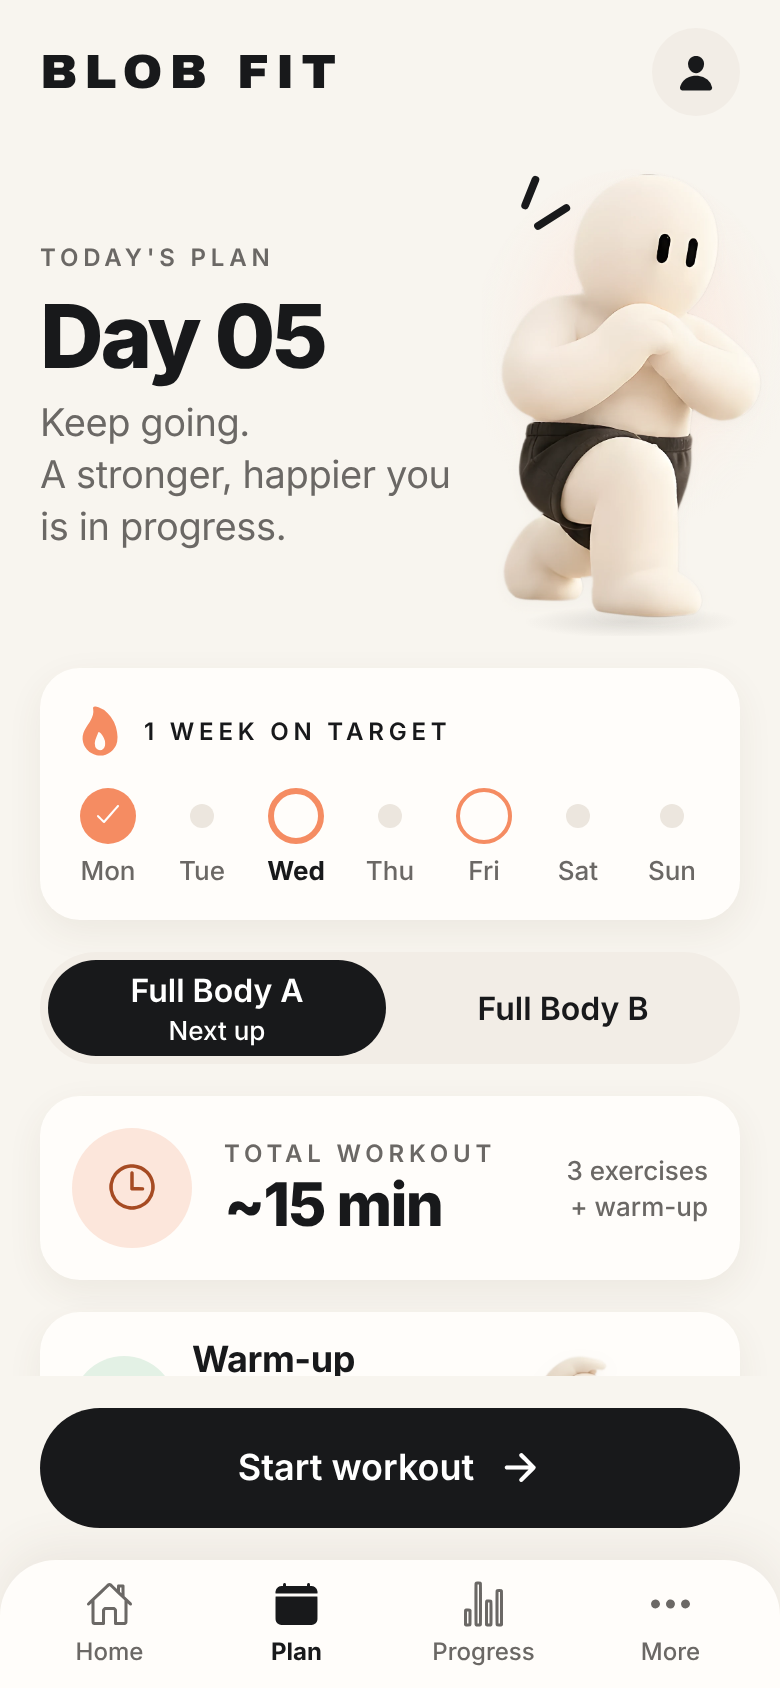
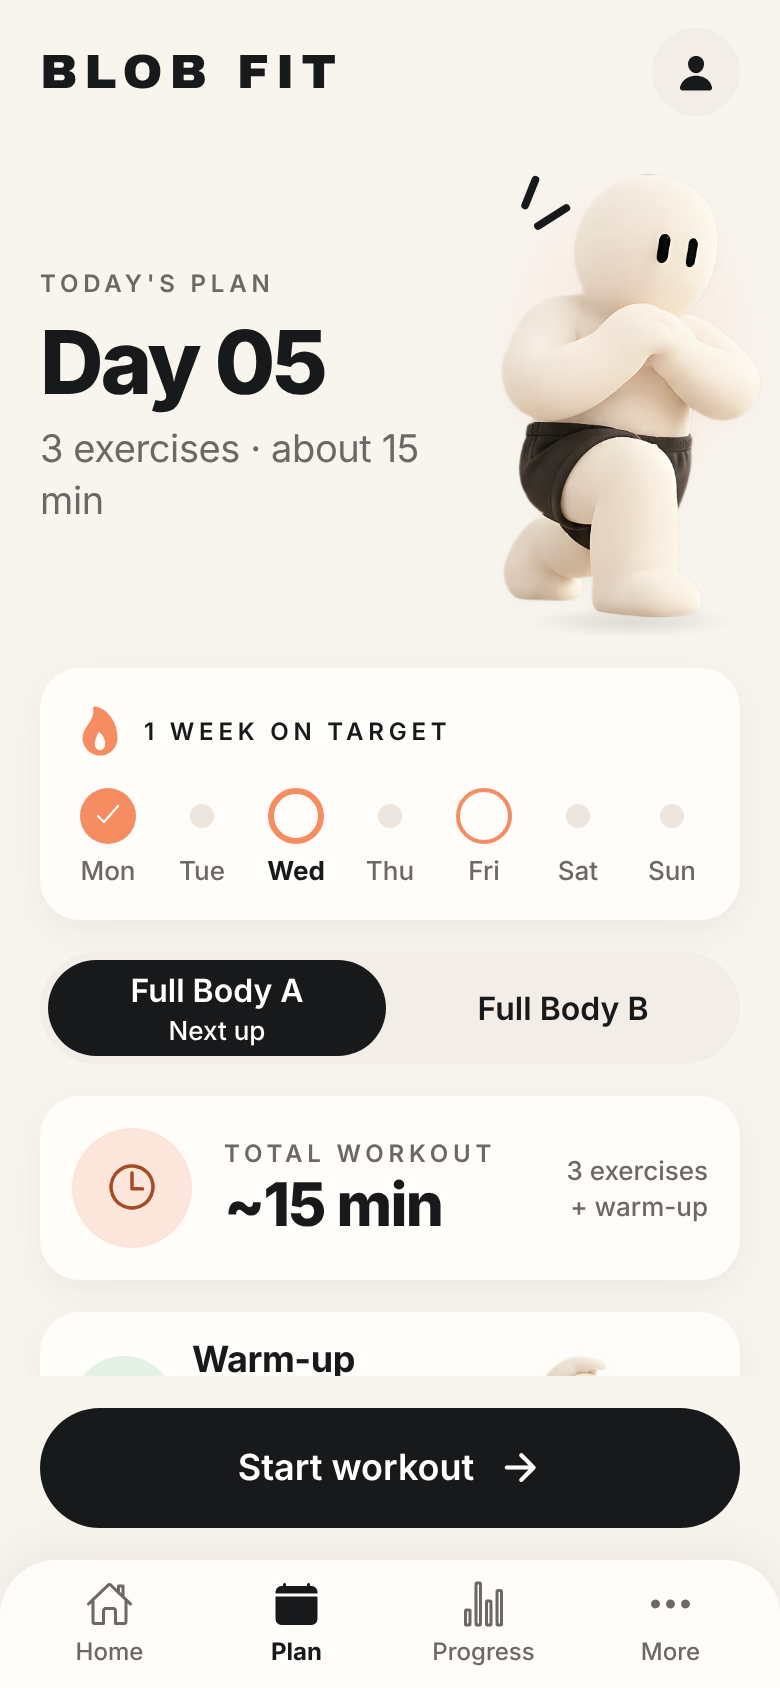
docs: training round, refreshed screenshots
Maps the features established training apps share to what BLOB FIT now
does, lists what was removed as filler and what is not added yet.

Claude-Session: https://claude.ai/code/session_01GxvcnDqjGiTzFAnzHf84DC

Changed region(s): [[0.0308, 0.1232, 0.5846, 0.3389]]

diff --git a/docs/MVP_RELEASE_NOTES.md b/docs/MVP_RELEASE_NOTES.md
@@ -1,6 +1,6 @@
 # BLOB FIT — MVP implementation report
 
-**Branch:** `claude/zealous-cannon-9cvkob` · **Date:** 2026-10-17 · **Status:** feature-complete MVP preview. This is not an app-store release.
+**Branch:** `claude/zealous-cannon-9cvkob` · **Date:** 2026-10-18 · **Status:** feature-complete MVP preview. This is not an app-store release.
 
 **Web preview:** https://onderhalis.github.io/blobfit/ (the exported web build; not the native app). See [Web preview](#web-preview) and, for iPhone, [`NATIVE_TESTING.md`](NATIVE_TESTING.md).
 
@@ -26,21 +26,21 @@ Stack: Expo SDK 58, React Native 0.88, React 19.3, TypeScript 6 (strict), Expo R
 | Area | Behaviour |
 |---|---|
 | **Onboarding** | Four steps: goal, experience, training days (2–4, with a warning for three days in a row), equipment, plus a required general-fitness disclaimer. The answers persist across relaunch and can be edited later in *More → Your plan settings*. |
-| **Home** | Greeting and a hero whose copy follows today's real state: first session, session N ready, rest day, done today, or resume. Also shows the week's journey card (sessions done vs planned), quick links and a focus card. |
+| **Home** | Today's date and plain status from real state ("Full Body B today", "Rest day", "Done for today", "… in progress") with one action. Below: this week (done vs planned, streak), today's or the next workout with each exercise's target and what changed since last time, and the last workout. |
 | **Plan** | Beginner full-body A/B rotation. A is squat, incline push-up and a pull; B is hip hinge, a pull and plank. Sets depend on experience. The pull adapts to equipment: dumbbell row, then band row, then prone Y raise. The screen also has week dots (done / planned / missed / rest / extra), a ~duration estimate, an expandable warm-up and A/B preview. Rest days are real days off, and you can still start a workout if you want. |
 | **Exercise detail** | Muscles (text chips, no anatomy overlay), starting position, numbered steps, rep phases, form cues, common mistakes, and linked easier/harder variations. Every exercise shows a **Content review pending** badge. |
 | **Library** | 12 movements grouped by pattern. Exercises needing equipment you didn't select are flagged. |
-| **Workout logging** | Per-set reps or seconds and load (kg/lb), done ticks, add/remove sets, skip, swap to a same-pattern exercise your equipment allows, a persistent timer with pause/resume, a 60 s rest countdown and a warm-up checklist. Discarding asks for confirmation. Only ticked sets are saved. |
-| **Session summary** | Duration, sets, reps, hold time, volume, and new personal bests compared only with your own earlier sessions. Delete also asks for confirmation. |
-| **Progress** | All numbers come from logs (per-side exercises count both sides): this week's ring, weeks-on-target streak, total workouts (and last 30 days), consistency (completed ÷ scheduled days so far), total reps/volume, first-vs-latest best set (like-for-like only: loaded vs loaded, bodyweight vs bodyweight), weekly bar history, personal bests and recent sessions. Brand-new users see an empty state. |
-| **More** | Plan settings, library, safety & about, kg/lb, and erase all data (with confirmation). |
+| **Workout logging** | Per-set reps or seconds and load (kg/lb), done ticks, add/remove sets, skip, swap to a same-pattern exercise your equipment allows, a persistent timer with pause/resume, a 60 s rest countdown and a warm-up checklist. Each exercise shows what you did last time and why today's target is what it is; after its last set it asks how it felt (easy / just right / hard). Discarding asks for confirmation. Only ticked sets are saved. |
+| **Session summary** | Duration, sets, reps, hold time, volume, new personal bests compared only with your own earlier sessions, how each exercise felt, and the next target for each. Delete also asks for confirmation. |
+| **Progress** | All numbers come from logs (per-side exercises count both sides): workouts and minutes since the first one, this week's ring, weeks-on-target streak, sets, consistency (completed ÷ scheduled days so far), total reps/volume, first-vs-latest best set (like-for-like only), a six-week training calendar, personal bests and recent sessions. A brand-new user sees no zero tiles, only this week's target and their first workout. |
+| **More** | Plan settings, library, safety & about, kg/lb, training-day reminder (iOS/Android only, off by default), and erase all data (with confirmation). |
 | **Robustness** | Loading state. Saved data is validated down to every set: unreadable or incomplete data shows a recovery screen and is never silently wiped. A failed write to device storage shows a *Not saved* banner with retry. Schedule edits apply from the day they are made, so past weeks keep their original targets. Safe areas respected. 44 pt minimum touch targets. Screen-reader roles, labels, values and states on all controls (cross-platform `aria-*` props, so checked/selected/disabled states also reach the web). Every progress ring and bar also has a text value. There are no animations, so reduced-motion settings are honoured by default. |
 
 ## Quality gates (`docs/QUALITY_GATES.md`)
 
 | # | Gate | Result | Evidence |
 |---|---|---|---|
-| 1 | install / typecheck / test / lint | ✅ | `npm run check`: tsc clean, eslint 0 problems, **99 unit tests** pass (also run under `TZ=America/New_York` and `TZ=Asia/Tokyo`). |
+| 1 | install / typecheck / test / lint | ✅ | `npm run check`: tsc clean, eslint 0 problems, **117 unit tests** pass (also run under `TZ=America/New_York` and `TZ=Asia/Tokyo`). |
 | 2 | App starts, five screens navigable | ✅ web · ⚠ native | Web: exported build driven end to end by `e2e/smoke.mjs`. Native: `expo export --platform ios --platform android` bundles successfully. No simulator or device was available, so native runtime is **unverified**. |
 | 3 | Onboarding persists across relaunch, editable | ✅ | e2e reloads after onboarding and after logging; the preferences screen saves edits. |
 | 4 | Safe rest days, no fake metrics | ✅ | Schedules are limited to 2–4 days and every default has rest days between sessions (unit tested). The concept numbers are not used anywhere. |
@@ -116,12 +116,36 @@ Still open:
 - Step-by-step pose images and exercise-specific art: requested in issue #1 (CC-007, CC-009).
 - TestFlight / EAS: needs the founder's Apple Developer and Expo accounts.
 
+## Training round: what successful fitness apps do
+
+Founder feedback (2026-10-18): parts of the app read as generic AI output. This round removes that and adds the features that the best-known training apps share, inside BLOB FIT's own design. Every number shown comes from the user's own logs.
+
+**Removed:** slogans and affirmation copy, Home quick-link tiles that repeated the tab bar, the generic "Today's focus" tip, zero-value tiles for new users, the slogan footer on Progress, and repeated text (two "no workouts" messages; a workouts tile that repeated the headline).
+
+| Pattern in established apps | In BLOB FIT now |
+|---|---|
+| Previous performance inline while logging (Strong, Hevy) | "Last time (Oct 9): 12, 12 reps · 8 kg" under every exercise, plus a per-exercise history on the exercise screen. |
+| Automatic progressive overload (Fitbod, Jefit, Progress) | Double progression from your own last session (`src/domain/progression.ts`). Reps: +1 per session (+2 if it felt easy). Bodyweight goes up to target +4, then suggests the harder variation if your equipment allows. Loaded: up to target +2 reps, then +2 kg (5 lb). Holds: +5 s (+10 s if it felt easy). Missed reps or "hard" repeat the target. Never below the plan. Each change states its reason. |
+| Effort rating (RPE in Strong/Hevy, "how did it feel" in Fitbod) | Easy / just right / hard after each exercise; it feeds the next target. |
+| Next-time targets | Session summary lists the next target per exercise; Plan and Home show the progressed prescription. |
+| Consistency calendar (Apple Fitness, Hevy) | Six-week training calendar on Progress (trained, extra, planned, missed, rest). It replaces the weekly bar chart. |
+| Workout reminders | Opt-in, one local notification per training day at a chosen hour. Nothing leaves the device. |
+| Rest timer (Strong) | Already present: 60 s countdown after each set. |
+
+Not added yet, and why:
+- **Apple Health, widgets, Live Activities:** need a development build and a device to verify; Expo Go cannot run them.
+- **Focus mode (one exercise per screen):** a reasonable next step; it needs device testing of gestures and VoiceOver order first.
+- **Plate calculator:** the plan uses bodyweight, bands and dumbbells; there is no barbell yet.
+- **Badges, social feed, AI coach chat:** easy to make look busy without helping a beginner; left out on purpose.
+
+Tests: `src/domain/__tests__/progression.test.ts` covers the rules above; the e2e smoke test logs four sessions and checks "Last time", the effort question, "Next time", Home's "from last time" line, the calendar and the new-user Progress state.
+
 ## Known gaps and placeholders
 
 - **Art is interim.** The mascot cut-outs come from 941×1672 concept images. They are upscaled for 3× screens, but they are not production exports. Hip hinge, glute bridge, plank, box/goblet squat, RDL, band row and prone Y raise have no approved pose, so they use a neutral icon tile. Production exports are requested in issue #1 (`CC-001`).
 - **Canonical asset PNGs** (11 files in `docs/ASSET_MANIFEST.md`) are still not on GitHub.
 - **Native runtime** has not been run on a simulator or device. The iOS-only paths (system tab bar, navigation bars, sheet, automatic insets, SF Symbols, alerts, action sheet, segmented control, haptics) are type-checked and bundled but not exercised. The quickest check is Expo Go; see `docs/NATIVE_TESTING.md`.
-- **No notifications, no data export, no dark mode.** Dark mode is out of scope for the cream visual direction; `userInterfaceStyle` is locked to light.
+- **Reminders are local and native-only.** The web preview has none. There is still no data export and no dark mode. Dark mode is out of scope for the cream visual direction; `userInterfaceStyle` is locked to light.
 - **Copy review:** exercise text, the disclaimer and prescriptions need a qualified coach and legal review before any public release.
 - The working name "BLOB FIT" is pending trademark/app-store clearance. The app icon is a simple placeholder drawn from the canonical face.
 
